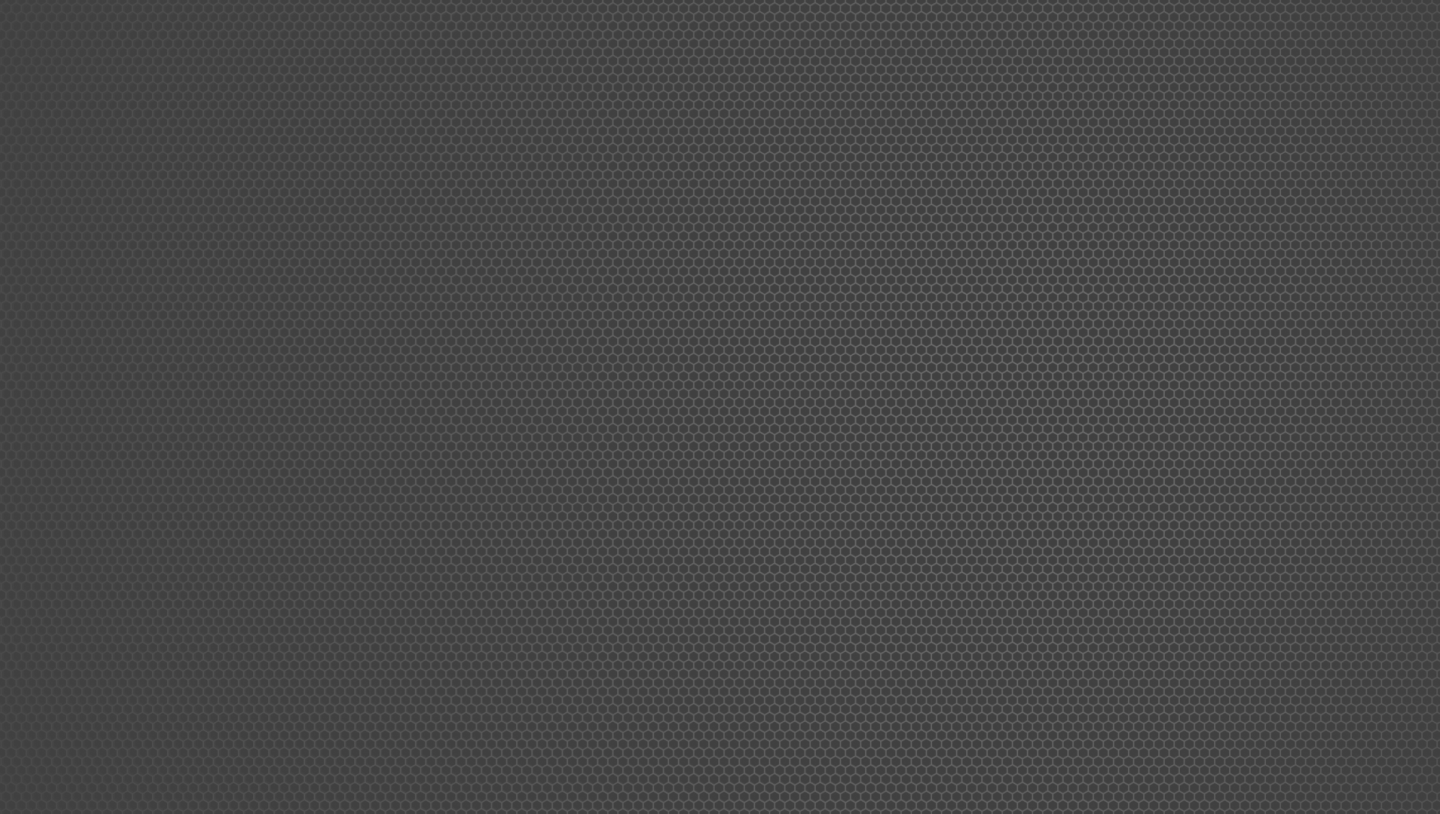
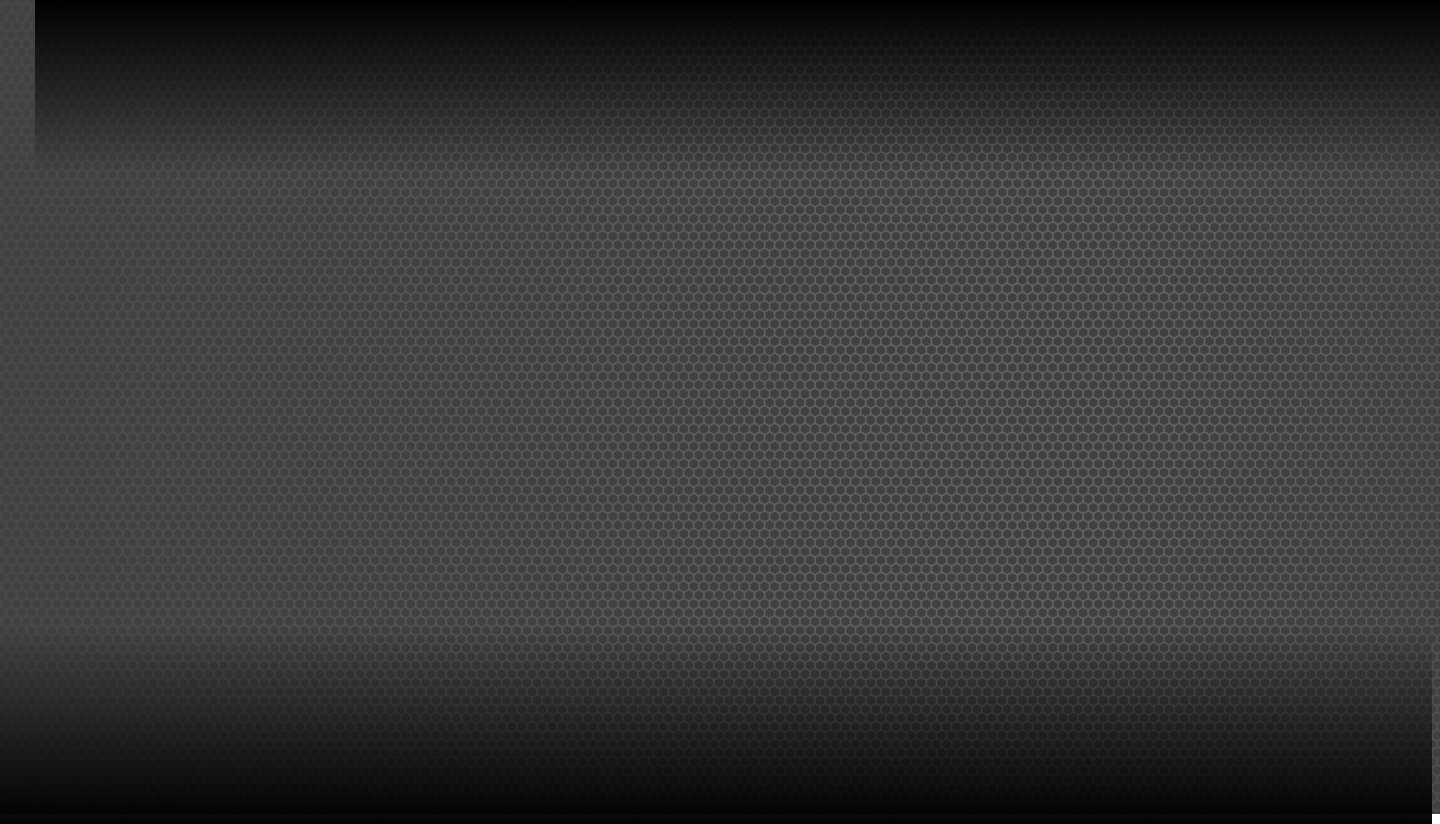
update

diff --git a/index.html b/index.html
@@ -161,8 +161,7 @@
                 <div class="container-fluid sequence-section__container">
                     <div id="softIn" class="sequence-section__content sequence-section__content_right sequence-section__content_top">
                         <h2>SOFTWARE</span></h2>
-                        <p>IN-16 Nixie watch can be fully controlled and programmed via computer. </p>
-                        <p>By simply connecting the IN-16 Nixie watch to a PC or Mac, the user can choose the preferred Nixie tubes’ backlight, adjust the brightness, any many more. </p>
+                        <p>IN-16 Nixie watch can be fully controlled and programmed via computer. User can choose the preferred Nixie tubes’ backlight, adjust the brightness, any many more. </p>
                         <div class="sequence-section__apps">
                             <a href="" class="c-button c-button_white c-button_outline c-button_icon">
                                 <img src="img/index/win-icon.svg" alt="">

diff --git a/css/main.css b/css/main.css
@@ -4739,6 +4739,7 @@ input, button, textarea, select {
   background-image: url("../img/index/bg.png");
   background-repeat: no-repeat;
   background-size: cover;
+  background-position: bottom center;
   z-index: -1;
 }
 

diff --git a/scss/_index.scss b/scss/_index.scss
@@ -50,6 +50,7 @@
     background-image: url('../img/index/bg.png');
     background-repeat: no-repeat;
     background-size: cover;
+    background-position: bottom center;
     z-index: -1;
 }
 .gphg {
